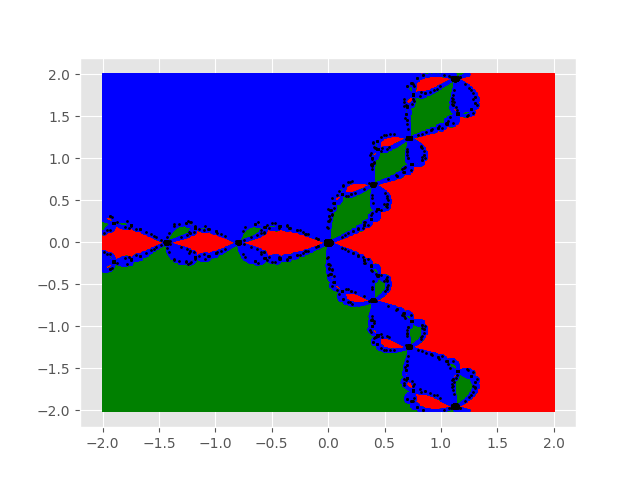
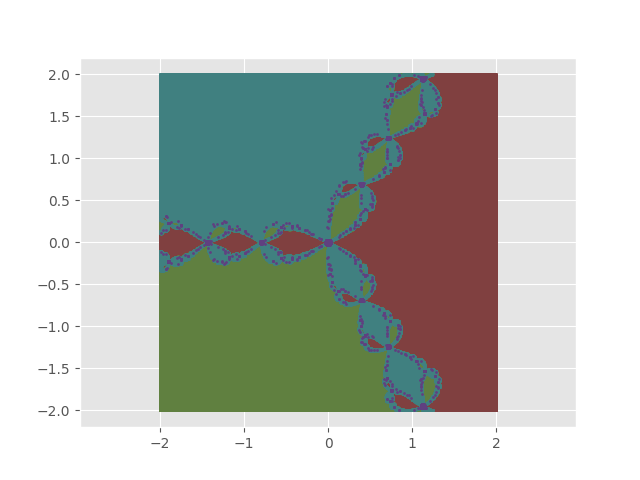
added utils/coloring, reworked all pictures ('classification' still has some problems)

diff --git a/task3/main.py b/task3/main.py
@@ -1,11 +1,13 @@
 import os
 import math
 import numpy as np
+import colorsys
 import matplotlib as mpl
 import matplotlib.pyplot as plt
 
-from typing import List
+from typing import List, Callable
 from utils.statusbar import Stage, Iteration, Sequence
+from utils.coloring import red_green_range, distinct_palette
 
 plt.style.use('ggplot')
 
@@ -19,15 +21,14 @@ def squared_distance(z1: complex, z2: complex) -> float:
 
 
 class PictureEnv:
-    colors = ['red', 'green', 'blue', 'black']
-
-    def __init__(self, lx: int, ly: int, rx=None, ry=None, px=1000, py=1000):
+    def __init__(self, lx: int, ly: int, rx=None, ry=None, px=1000, py=1000, c=3):
         self.lx = lx
         self.rx = rx if rx is not None else abs(lx)
         self.ly = ly
         self.ry = ry if ry is not None else abs(ly)
         self.px = px
         self.py = py
+        self.colors = distinct_palette(c)
 
     def width(self):
         return self.rx - self.lx
@@ -40,8 +41,17 @@ class Plane:
     eps = 1e-5
     Eps = 1e5
 
-    def __init__(self, roots):
+    def __init__(self, roots: List[complex], *args: Callable[[complex], complex]):
         self.roots = roots
+        self.transformers = args
+        self.id = 0
+
+    def select_transformer(self, tid: int):
+        self.id = tid
+        return self
+
+    def transform(self, z):
+        return self.transformers[self.id](z)
 
     def check(self, z: complex):
         """Positioning status of complex number
@@ -67,14 +77,7 @@ class NewtonIterator:
         self.plane = plane
 
     def newton_iterations(self, z: complex) -> (List[complex], int):
-        """Multiple iteration transition z_j -> z_{j+1}
-
-        z_{j+1} = z_j - f(z_j) / f'(z_j)
-            f(z) = z^3 - 1
-            f'(z) = 3 * z^2
-        z_{j+1} = z_j - (z_j^3 - 1) / (3 * z_j^2)
-        z_{j+1} = (3 * z_j^3 - z_j^3 + 1) / (3 * z_j^2)
-        z_{j+1} = (2 * z_j^3 + 1) / (3 * z_j^2)
+        """Multiple iteration transition z -> lim z_j
 
         :param z: previous iteration value
         :return: positioning status of iteration limit
@@ -83,32 +86,7 @@ class NewtonIterator:
         while self.plane.check(z) is None:
             if z == 0.0:
                 return sequence, -1
-            z = (2 * (z ** 3) + 1) / (3 * (z ** 2))
-            sequence.append(z)
-        return sequence, self.plane.check(z)
-
-    def newton_iterations_alternative(self, z: complex) -> (List[complex], int):
-        """Multiple iteration transition (in real/imag form)
-
-        z_{j+1} = (2 / 3) * z_j + (1 / 3) * (1 / z_j^2)
-            z_j = re + im * i
-        z_{j+1} = (2 / 3) * z_j + (1 / 3) * (1 / (re^2 - im^2 + 2 re * im * i))
-        z_{j+1} = (2 / 3) * z_j + (1 / 3) * ((re^2 - im^2 - 2 re * im * i) / ((re^2 - im^2)^2 + 4 re^2 * im^2))
-        z_{j+1} = (2 / 3) * z_j + (1 / 3) * ((re^2 - im^2 - 2 re * im * i) / (re^2 + im^2)^2)
-        z_{j+1} = (2 / 3) * re + (1 / 3) * (re^2 - im^2) / (re^2 + im^2)^2 +
-                + (2 / 3) * (im - re * im / (re^2 + im^2)^2) * i
-
-        :param z: previous iteration value
-        :return: positioning status of iteration limit
-        """
-        sequence = [z]
-        while self.plane.check(z) is None:
-            denominator = ((z.real ** 2.0) + (z.imag ** 2.0)) ** 2.0
-            if denominator == 0.0:
-                return sequence, -1
-            new_re = (2.0 / 3.0) * z.real + (1.0 / 3.0) * ((z.real ** 2.0) - (z.imag ** 2.0)) / denominator
-            new_im = (2.0 / 3.0) * (z.imag - (z.real * z.imag) / denominator)
-            z = complex(new_re, new_im)
+            z = self.plane.transform(z)
             sequence.append(z)
         return sequence, self.plane.check(z)
 
@@ -116,13 +94,13 @@ class NewtonIterator:
         s, k = self.newton_iterations(z)
         x = [zz.real for zz in s]
         y = [zz.imag for zz in s]
-        size = max(1, max(max(x) - min(x), max(y) - min(y)) / 2 / len(s))
         root = self.plane.roots[k]
 
         plt.figure()
-        plt.plot(x, y, 'o', color='black', markersize=size, scalex=1, scaley=1)
-        plt.plot(z.real, z.imag, 'o', color='red', markersize=size + 1, scalex=1, scaley=1)
-        plt.plot(root.real, root.imag, 'o', color='blue', markersize=size + 1, scalex=1, scaley=1)
+        plt.axis('equal')
+        plt.scatter(x, y, s=np.linspace(10, 4, len(s)), c=red_green_range(len(s)))
+        plt.plot(x, y, 'o', color='black', ls='-', ms=1)
+        plt.plot(root.real, root.imag, 'gh', ms=7)
         plt.savefig(os.path.join(os.getcwd(), 'task3', 'out', filename))
 
     def save_classification(self, limits: PictureEnv, filename: str, verbose=True):
@@ -147,10 +125,11 @@ class NewtonIterator:
                 status.step()
 
         plt.figure()
+        plt.axis('equal')
         for i in range(roots + 1):
             x = [z.real for z in points[i]]
             y = [z.imag for z in points[i]]
-            plt.plot(x, y, 'o', color=limits.colors[i], markersize=1, scalex=1, scaley=1)
+            plt.plot(x, y, 'o', color=limits.colors[i], ms=1)
         plt.savefig(os.path.join(os.getcwd(), 'task3', 'out', filename))
         if verbose:
             status.step()

diff --git a/main.py b/main.py
@@ -13,15 +13,35 @@ def task2():
 
 
 def task3():
-    ni = NewtonIterator(Plane([
-        1.0 + 0.0j,
-        -0.5 - math.sqrt(3.0) * 1.0j / 2.0,
-        -0.5 + math.sqrt(3.0) * 1.0j / 2.0,
-    ]))
-    for i, z in enumerate([1.0 + 0.75j, -1 - 0.5j, 1.5 + 0.5j]):
-        ni.save_sequence(z, f'sequence-{i}.png')
+    ni = NewtonIterator(Plane(
+        [
+            1.0 + 0.0j,
+            -0.5 - math.sqrt(3.0) * 1.0j / 2.0,
+            -0.5 + math.sqrt(3.0) * 1.0j / 2.0,
+        ],
+        # z_{j+1} = z_j - f(z_j) / f'(z_j)
+        #   f(z) = z^3 - 1
+        #   f'(z) = 3 * z^2
+        # z_{j+1} = z_j - (z_j^3 - 1) / (3 * z_j^2)
+        # z_{j+1} = (3 * z_j^3 - z_j^3 + 1) / (3 * z_j^2)
+        # z_{j+1} = (2 * z_j^3 + 1) / (3 * z_j^2)
+        lambda z: (2 * (z ** 3) + 1) / (3 * (z ** 2)),
+        # z_{j+1} = (2 / 3) * z_j + (1 / 3) * (1 / z_j^2)
+        #   z_j = re + im * i
+        # z_{j+1} = (2 / 3) * z_j + (1 / 3) * (1 / (re^2 - im^2 + 2 re * im * i))
+        # z_{j+1} = (2 / 3) * z_j + (1 / 3) * ((re^2 - im^2 - 2 re * im * i) / ((re^2 - im^2)^2 + 4 re^2 * im^2))
+        # z_{j+1} = (2 / 3) * z_j + (1 / 3) * ((re^2 - im^2 - 2 re * im * i) / (re^2 + im^2)^2)
+        # z_{j+1} = (2 / 3) * re + (1 / 3) * (re^2 - im^2) / (re^2 + im^2)^2 +
+        #         + (2 / 3) * (im - re * im / (re^2 + im^2)^2) * i
+        lambda z: complex(
+            (2.0 / 3.0) * z.real + (1.0 / 3.0) * ((z.real ** 2.0) - (z.imag ** 2.0)),
+            (2.0 / 3.0) * (z.imag - (z.real * z.imag) / denominator)
+        ) / (((z.real ** 2.0) + (z.imag ** 2.0)) ** 2.0)
+    ).select_transformer(0))
+    # for i, z in enumerate([1.0 + 0.75j, -1 - 0.5j, 1.5 + 0.5j]):
+    #     ni.save_sequence(z, f'sequence-{i}.png')
     ni.save_classification(
-        PictureEnv(lx=-2, ly=-2, px=500, py=500),
+        PictureEnv(lx=-2, ly=-2, px=500, py=500, c=4),
         'classification.png'
     )
 

diff --git a/utils/coloring.py b/utils/coloring.py
@@ -1,0 +1,13 @@
+import numpy as np
+import colorsys
+
+
+def red_green_range(size: int):
+    r = np.linspace(1, 0, size)
+    g = np.linspace(0, 1, size)
+    return np.array([[r[i], g[i], 0] for i in range(size)])
+
+
+def distinct_palette(size: int):
+    hsv = [[(i / size), 0.5, 0.5] for i in range(size)]
+    return np.array(list(map(lambda c: colorsys.hsv_to_rgb(*c), hsv)))
